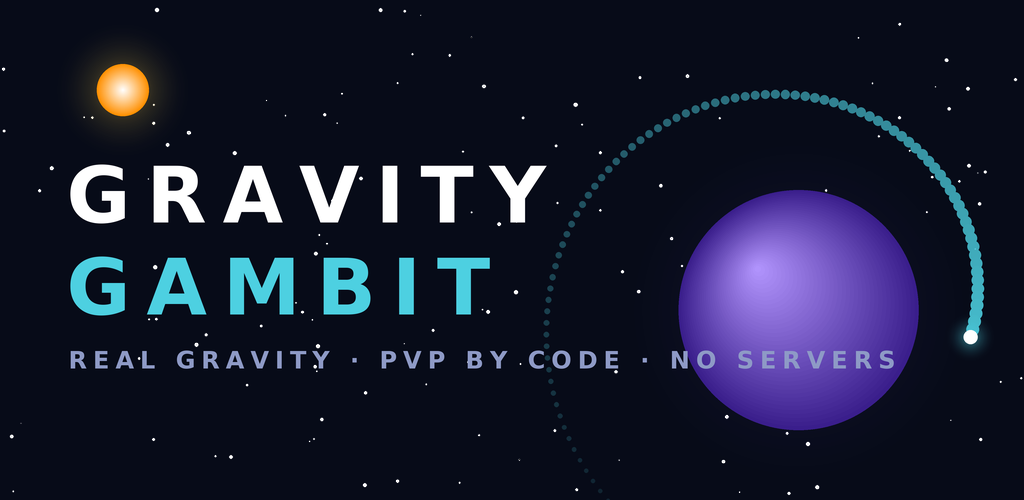
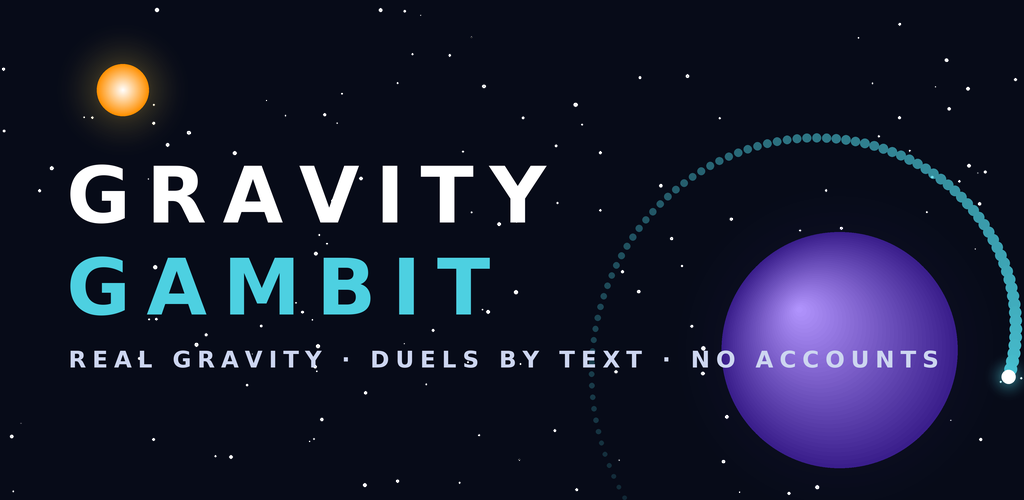
Apply the pointing test to store surfaces; fix feature-graphic tagline
"PVP BY CODE" pointed at an implementation referent (MatchRecord ->
base64) that a context-free store viewer cannot resolve; "NO SERVERS"
pointed at the developer's reality, not the player's. Tagline is now
"REAL GRAVITY · DUELS BY TEXT · NO ACCOUNTS" — each phrase denotes
something the reader has experienced. Codified as the "pointing test"
in AI_LOOK_AVOIDANCE.md (run on every noun before the litmus test);
short-description drafts reworded to match. Tagline auto-fit + contrast
bump; planet nudged clear of the text line.

Claude-Session: https://claude.ai/code/session_01E2bKuq6DELNyC1X7mUBqd8

diff --git a/tools/store_assets.py b/tools/store_assets.py
@@ -122,7 +122,7 @@ def feature():
         d.ellipse([x - r, y - r, x + r, y + r], fill=(255, 255, 255, a))
 
     # Planet lower-right with a slingshot trail whipping around it.
-    pcx, pcy, pr = W * 0.78, H * 0.62, 120 * SS
+    pcx, pcy, pr = W * 0.82, H * 0.70, 118 * SS
     glow(img, pcx, pcy, pr * 1.6, PURPLE, 60)
     d = ImageDraw.Draw(img)
     draw_planet(d, pcx, pcy, pr, (180, 150, 255), (58, 30, 140))
@@ -139,13 +139,22 @@ def feature():
 
     # Title, app treatment: GRAVITY white / GAMBIT cyan, wide tracking.
     f_big = ImageFont.truetype(FONT, 78 * SS)
-    f_sub = ImageFont.truetype(FONT, 24 * SS)
     tracking = 16 * SS
     tx, ty = W * 0.065, H * 0.30
     spaced_text(d, (tx, ty), "GRAVITY", f_big, WHITE, tracking)
     spaced_text(d, (tx, ty + 92 * SS), "GAMBIT", f_big, CYAN, tracking)
-    spaced_text(d, (tx + 2 * SS, ty + 196 * SS),
-                "REAL GRAVITY · PVP BY CODE · NO SERVERS", f_sub, TEXT_DIM, 6 * SS)
+
+    # Tagline: every phrase must point at a reality the *player* experiences
+    # (docs/AI_LOOK_AVOIDANCE.md "pointing test"). Auto-shrink to fit.
+    tagline = "REAL GRAVITY · DUELS BY TEXT · NO ACCOUNTS"
+    sub_size, sub_track = 24 * SS, 6 * SS
+    while True:
+        f_sub = ImageFont.truetype(FONT, sub_size)
+        width = sum(d.textlength(ch, font=f_sub) + sub_track for ch in tagline)
+        if width <= W * 0.88 or sub_size <= 14 * SS:
+            break
+        sub_size -= SS
+    spaced_text(d, (tx + 2 * SS, ty + 196 * SS), tagline, f_sub, (205, 214, 240), sub_track)
 
     img = img.resize((1024, 500), Image.LANCZOS).convert("RGB")
     img.save(os.path.join(OUT, "feature-1024x500.png"))

diff --git a/docs/AI_LOOK_AVOIDANCE.md b/docs/AI_LOOK_AVOIDANCE.md
@@ -28,5 +28,20 @@ Voice = a physics nerd who respects you: precise, dry, quietly confident, occasi
 4. Docs: no "In conclusion", no "It's important to note", no bullet-lists-of-three-adjectives.
 5. Naming: no "Pro/Ultra/Max/AI" suffixes; features get game-world names (targeting computer, Retro burn, stardust — already set; keep register consistent).
 
+## The pointing test (run BEFORE the litmus test, on every noun)
+Words are pointers, not things. For each load-bearing word ask "why this word?"
+repeatedly until you reach the reality it denotes — then check WHOSE reality
+that is. Insider referents (our architecture, our docs, our pride) are invalid
+on context-free surfaces; the referent must be something the *reader* has
+experienced or can see in the adjacent screenshot.
+- Case study: feature-graphic tagline "PVP BY CODE" → why "code"? → MatchRecord
+  → base64 string → an *implementation* referent; a store-page stranger has no
+  path from "code" to that. The player-experienced reality: you send your move
+  to a friend as a message. Fix: "DUELS BY TEXT". Likewise "NO SERVERS" (our
+  hosting reality) → "NO ACCOUNTS" (their signup reality).
+- Corollary: shorthand ("challenge code") is allowed only on context-rich
+  surfaces AFTER the surrounding sentence has established its referent (as
+  DuelScreen does); never cold on banners, titles, or short descriptions.
+
 ## Litmus test before shipping any surface
 Read it aloud. If it could be pasted into any other mobile game unchanged, rewrite it until it could only belong to THIS game (mentions gravity, seeds, codes, stardust, or a real mechanic by name).

diff --git a/docs/STORE_LISTING.md b/docs/STORE_LISTING.md
@@ -7,9 +7,10 @@
 - Content rating expectation: PEGI 3 / Everyone (abstract sci-fi, no realistic violence, no gambling; IAP present → declared)
 
 ## Short description (≤80 chars) — options, pick by A/B later
-1. `Real-gravity artillery. Duel friends with codes — no servers, no accounts.` (76)
-2. `Slingshot shots through real gravity. PVP by challenge code. Fully offline.` (75)
-3. `N-body artillery duels. Machine-proven levels. PVP that fits in a text.` (71)
+(All phrases must pass AI_LOOK_AVOIDANCE.md §pointing test: reader-world referents only.)
+1. `Real-gravity artillery. Duel friends by text message — no accounts, no logins.` (79)
+2. `Slingshot shots through real gravity. Send duels to friends in any chat app.` (77)
+3. `N-body artillery duels. Every level provably beatable. Duels fit in a text.` (75)
 
 ## Full description (draft)
 > Every shot obeys real N-body gravity. Curve around planets, skim a star for a graze bonus, or fire away from the target and let three gravity wells bring it home.
